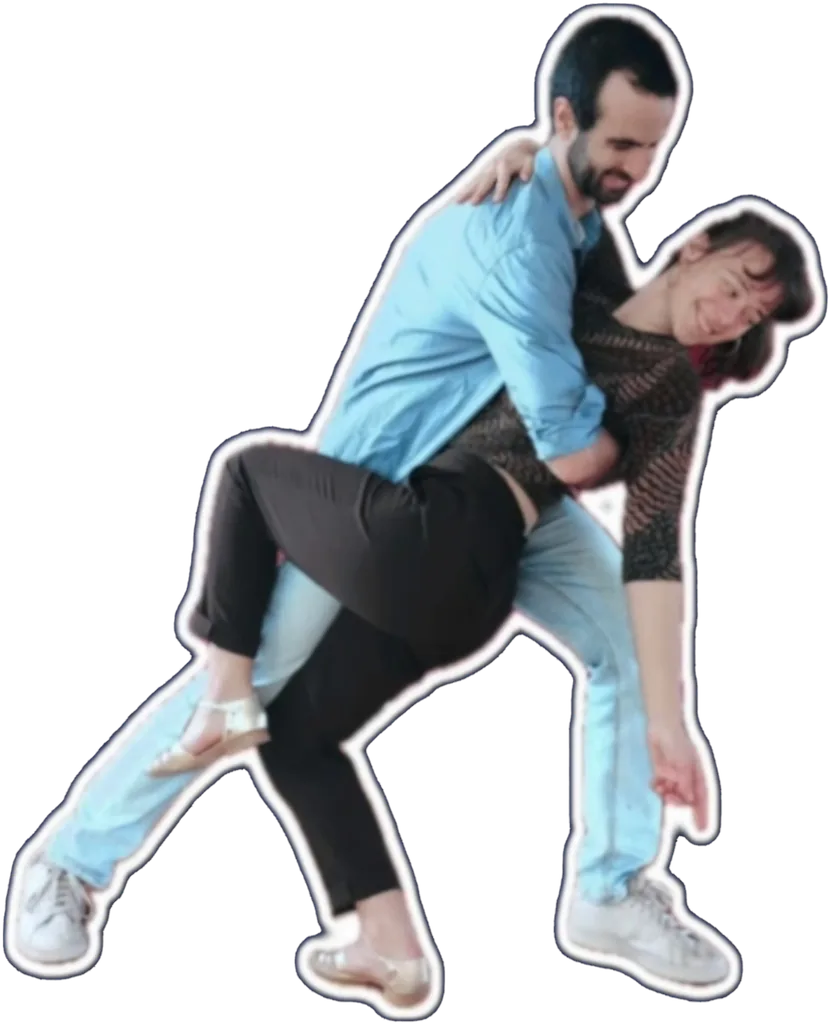
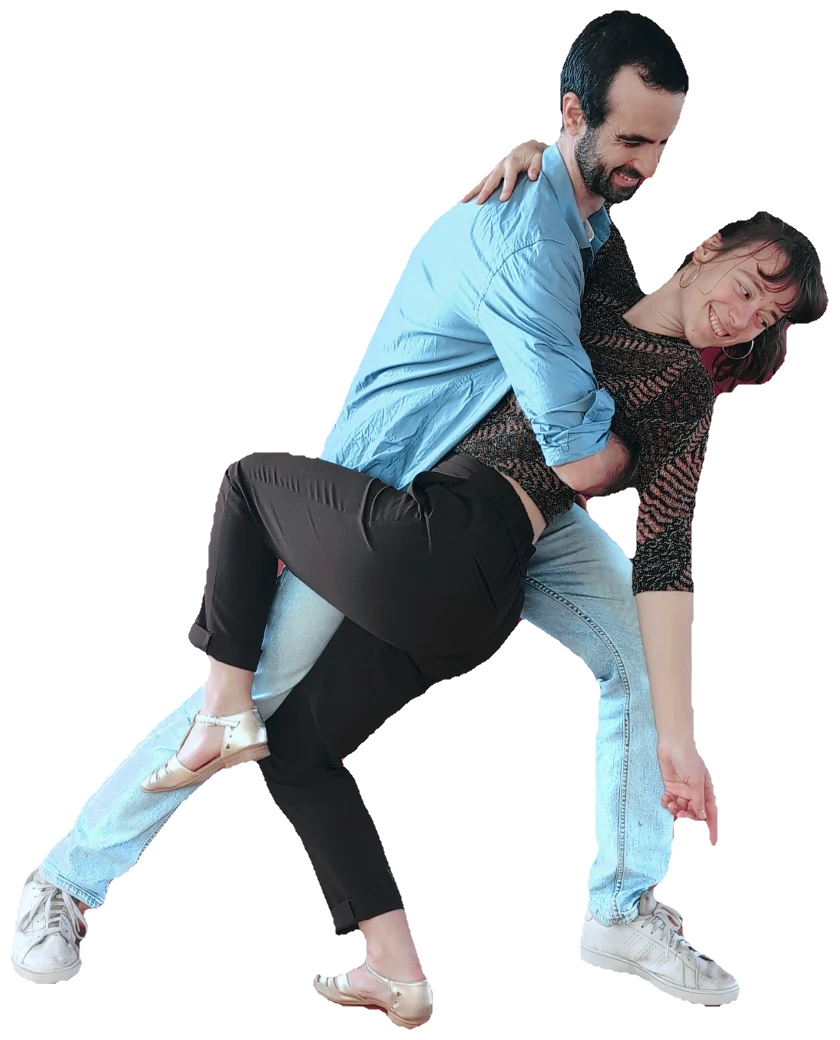
Improve 3rd couple image

Changed region(s): [[0.0, 0.0, 1.0, 1.0]]

diff --git a/MoonriseBlues.html b/MoonriseBlues.html
@@ -229,7 +229,7 @@
 
           <article class="mb-prof" aria-labelledby="mb-prof-3">
             <div class="mb-prof-frame" data-reveal>
-              <img src="images/moonrise-prof-chris-margot.webp" alt="Chris et Margot en train de danser" width="830" height="1024" loading="lazy">
+              <img src="images/moonrise-prof-chris-margot.webp?v=20261102-2" alt="Chris et Margot en train de danser" width="840" height="1040" loading="lazy">
             </div>
             <div class="mb-prof-copy" data-reveal>
               <p class="mb-prof-rank">Troisième couple</p>
